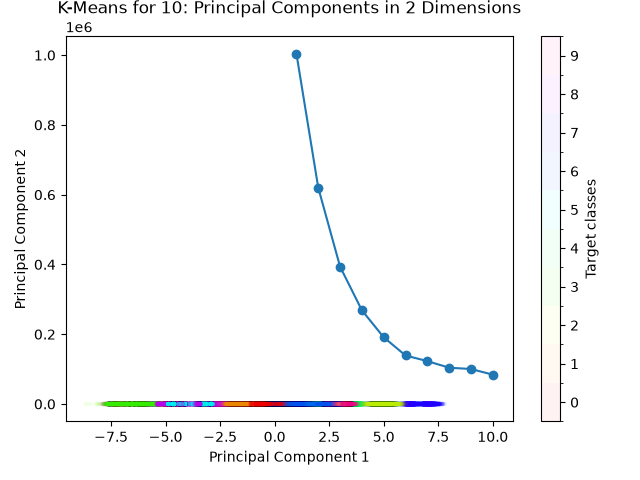
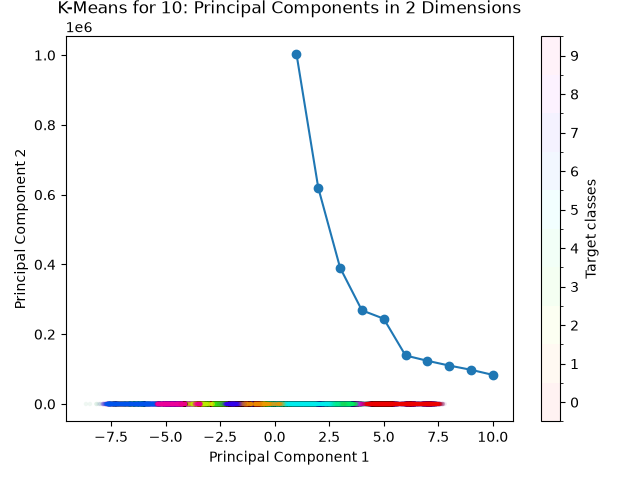
Sorted correlations

diff --git a/src/tools/metricAnalysis/Correlation.java b/src/tools/metricAnalysis/Correlation.java
@@ -3,6 +3,8 @@ package tools.metricAnalysis;
 import java.io.IOException;
 import java.nio.file.Files;
 import java.nio.file.Path;
+import java.util.HashMap;
+import java.util.List;
 import java.util.Map;
 import java.util.Set;
 
@@ -42,16 +44,19 @@ public class Correlation {
         Gson g = new Gson();
         JsonObject sampleJson = g.fromJson(jsonSampleRaw, JsonObject.class);
         Map.Entry<String, JsonElement> firstEntry = sampleJson.entrySet().iterator().next();
-        Set<String> metrics = sampleJson.get(firstEntry.getKey()).getAsJsonObject().keySet();
+        Set<String> metricsSet = sampleJson.get(firstEntry.getKey()).getAsJsonObject().keySet();
+        metricsSet.removeIf(m -> m.contains("*"));
+        Object[] metricsArray = metricsSet.toArray();
+        HashMap<String, Double> metricCorrelationMap = new HashMap<>();
         
-        // Balance vertical is buggy, will be temporarily removed from the sample.
-        metrics.removeIf(m -> m.contains("*"));
 
         double totalMetricCorrelation = 0;
-        for (String metric1 : metrics){
-            for (String metric2 : metrics){
+        for (int i = 0; i < metricsArray.length; i++){
+            String metric1 = (String) metricsArray[i];
+            for (int j = i + 1; j < metricsArray.length; j++){
+                String metric2 = (String) metricsArray[j];
                 double totalGeneratorCorrelation = 0;
-                
+                System.out.println("Calculating correlation between " + metric1 + " and " + metric2);
                 for (String generatorName : generatorList){
                     String jsonRaw = Files.readString(Path.of("finalizedMetrics/" + generatorName + "/levelMetrics.json"));
                     JsonObject generatorJson = g.fromJson(jsonRaw, JsonObject.class);
@@ -60,18 +65,24 @@ public class Correlation {
                     //System.out.println(generatorName + ": " + generatorR2);
                     
                 }
-                double averageGeneratorCorrelation = totalGeneratorCorrelation / 10.0;
+                double averageGeneratorCorrelation = totalGeneratorCorrelation / 10.0; // We have 10 generators
                 System.out.println("Average correlation for " + metric1 + " and " + metric2 + ": " + averageGeneratorCorrelation);
-                if (!Double.isNaN(averageGeneratorCorrelation)){totalMetricCorrelation += averageGeneratorCorrelation;}
+                if (!Double.isNaN(averageGeneratorCorrelation)){
+                    totalMetricCorrelation += averageGeneratorCorrelation;
+                    metricCorrelationMap.put(metric1 + " vs " + metric2, averageGeneratorCorrelation);
+                }
             }
             System.out.println(totalMetricCorrelation);
         }
 
-        System.out.println("Average correlation between all metrics among all generators: " + totalMetricCorrelation / (metrics.size() * metrics.size()));
-        
-        
-        
-
+        System.out.println("Average correlation between all metrics among all generators: " + totalMetricCorrelation / Math.pow(metricsArray.length, 2));
+        List<Map.Entry<String, Double>> sortedMetricCorrelationList = metricCorrelationMap.entrySet().stream()
+            .sorted(Map.Entry.<String, Double>comparingByValue().reversed())
+            .toList();
+        // Print the top 30 metric correlations
+        for (Map.Entry<String, Double> entry : sortedMetricCorrelationList.subList(0, 50)) {
+            System.out.println(entry.getKey() + ": " + entry.getValue());
+        }
         
     }
 

diff --git a/metric_analysis/PCA_analysis.py b/metric_analysis/PCA_analysis.py
@@ -18,7 +18,7 @@ else:
     from tools import create_attribute_dict, create_game_colorbars # type: ignore
 
     # See https://www.geeksforgeeks.org/data-analysis/principal-component-analysis-pca/ for more details
-def PCA_analysis(dataframe, cols_to_drop, col_to_predict):
+def PCA_analysis(dataframe, cols_to_drop, col_to_predict, n_components=2):
 
     # Step 3: Standardizing the Data
     df = pd.DataFrame(dataframe)
@@ -33,7 +33,7 @@ def PCA_analysis(dataframe, cols_to_drop, col_to_predict):
 
     # Step 4: Applying PCA algorithm
 
-    pca = PCA(n_components=2)
+    pca = PCA(n_components=n_components)
     X_pca = pca.fit_transform(X_scaled)
 
     pc_names = [f'PC{i+1}' for i in range(pca.n_components_)]
@@ -47,10 +47,15 @@ def PCA_analysis(dataframe, cols_to_drop, col_to_predict):
         axis="columns",
     )
     metric_variance_pct = variance_share.sum(axis=1).sort_values(ascending=False)
-    print("\nMetric contribution to total variance explained by the retained PCs:")
+    print(f"\nMetric contribution to total variance explained by the retained PCs: (Only {pca.explained_variance_ratio_.sum()*100:.2f}% of the variance explained by {n_components}/{X.shape[1]} components)")
+    
     for metric, contribution in metric_variance_pct.items():
         print(f"{metric}: {contribution:.2f}%")
 
+    for metric, contribution in metric_variance_pct.items():
+            print(f"{metric}")
+    for metric, contribution in metric_variance_pct.items():
+            print(f"{contribution:.2f}%")
     
 
     # Signed metric contributions for each input row, separately for each PC.
@@ -66,7 +71,7 @@ def PCA_analysis(dataframe, cols_to_drop, col_to_predict):
 
     X_train, X_test, y_train, y_test = train_test_split(X_pca, y, test_size=0.3, random_state=42)
 
-    model = LogisticRegression()
+    model = LogisticRegression(max_iter=500)
     model.fit(X_train, y_train)
 
     y_pred = model.predict(X_test)
@@ -224,6 +229,7 @@ if __name__ == "__main__":
         levels_df,
         cols_to_drop=["Generator", "Game"],
         col_to_predict="Generator",
+        n_components=2
     )    
 
     k_means_clustering(PC1, PC2)
